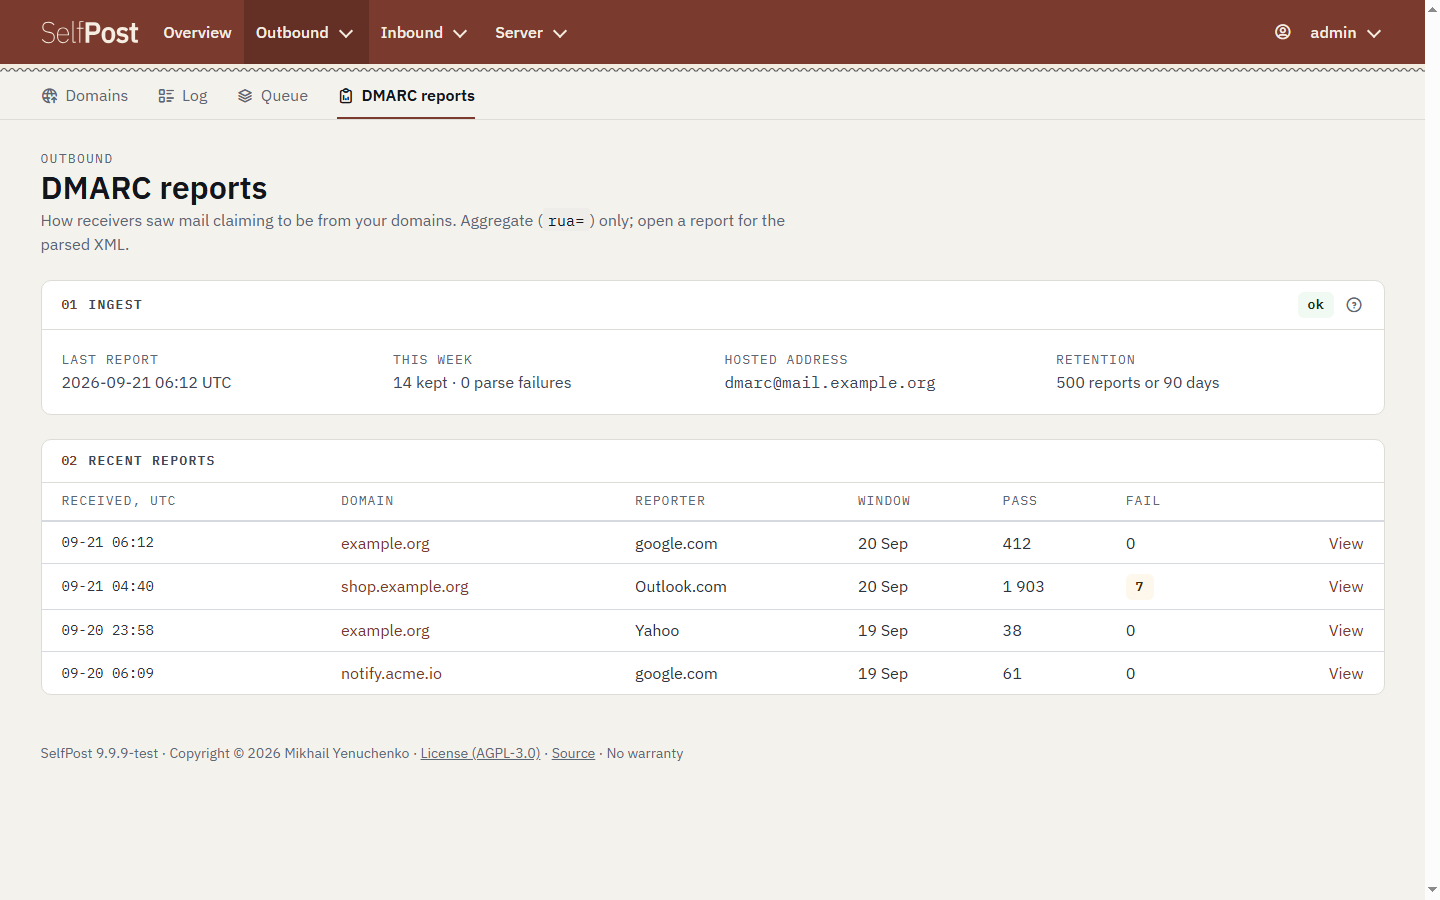
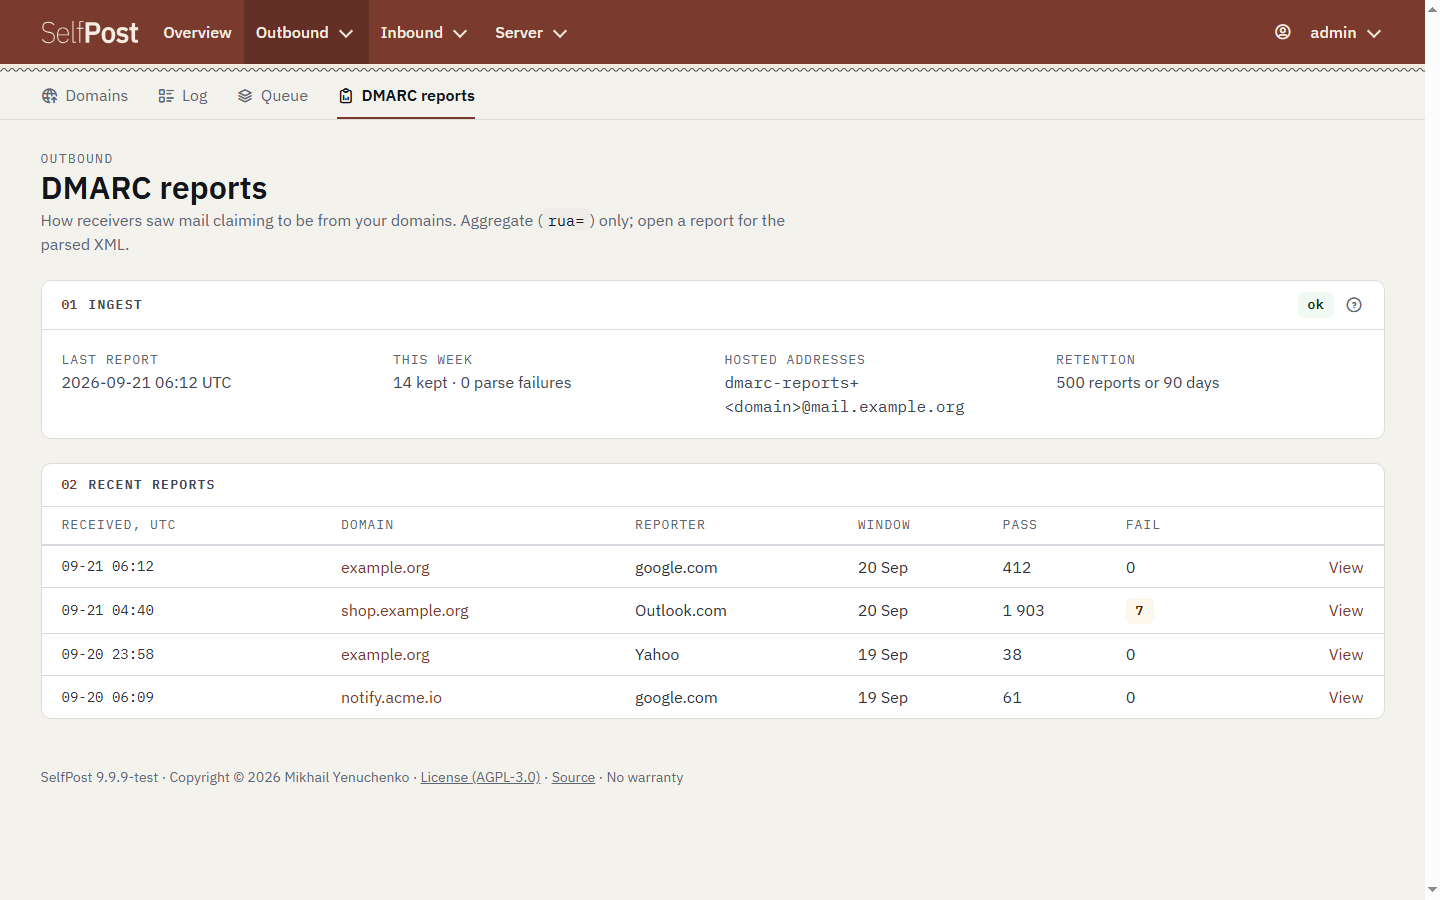
panel-redesign: no report mailbox for the server as a whole
Follows the design commit before it.

  - internal/dmarc: the ingest allow-list is the report address of each
    domain that is on this host and nothing else;
    DefaultHostedReportAddress and DefaultHostedSuggestion are removed.
    Since 1.7.0 the general mailbox dmarc-reports@<hostname> was open
    while no panel-wide default existed; the three-choice scheme had
    left it open always.
  - The DMARC hub's Ingest box shows the form of a hosted address,
    dmarc-reports+<domain>@<hostname>.
  - guide.md: what port 25 accepts.

Evidence: docs/assets/panel-redesign/evidence/dmarc.png re-shot (the
address form wraps after the plus sign in its column at 1440 px).

  go test -count=1 ./internal/dmarc/... ./internal/web/... ./cmd/panel: ok

diff --git a/internal/web/handlers/handlers_dmarc_pages_test.go b/internal/web/handlers/handlers_dmarc_pages_test.go
@@ -49,7 +49,7 @@ func TestDMARCHubShowsIngestAndRecentReports(t *testing.T) {
 	body := getBody(t, s.h.HandleDMARCList, "/outbound/dmarc")
 	has(t, "hub", body,
 		`<h1 class="title is-3">DMARC reports</h1>`, `<h2>Ingest</h2>`, `<span class="tag is-success is-light">ok</span>`,
-		`1 kept · 0 parse failures`, `dmarc-reports@mail.example.org`, `500 reports or 90 days`,
+		`1 kept · 0 parse failures`, `Hosted addresses`, `dmarc-reports&#43;&lt;domain&gt;@mail.example.org`, `500 reports or 90 days`,
 		`<h2>Recent reports</h2>`, `<a href="/outbound/dmarc/domains/1">example.org</a>`, `Outlook.com`,
 		"<td>1\u00a0903</td>", `<span class="tag is-warning is-light">7</span>`, `href="/outbound/dmarc/reports/`+idStr(s.reportID)+`">View</a>`)
 	lacks(t, "hub", body, `None yet`)
@@ -184,7 +184,7 @@ func TestDMARCPagesStayWithinTheViewersDomains(t *testing.T) {
 	has(t, "hub for its administrator", hub.Body.String(), `<h1 class="title is-3">DMARC reports</h1>`, `<h2>Recent reports</h2>`,
 		`<a href="/outbound/dmarc/domains/1">example.org</a>`, `Outlook.com`, `href="/outbound/dmarc/reports/`+idStr(s.reportID)+`"`)
 	lacks(t, "hub for its administrator", hub.Body.String(), "other.example.net", "google.com",
-		`/outbound/dmarc/reports/`+idStr(otherReport)+`"`, `<h2>Ingest</h2>`, `dmarc-reports@mail.example.org`,
+		`/outbound/dmarc/reports/`+idStr(otherReport)+`"`, `<h2>Ingest</h2>`, `Hosted addresses`, `dmarc-reports&#43;&lt;domain&gt;`,
 		`parse failure`, `Last report`, `Retention`)
 
 	// Their own domain and report are theirs, and so is the way back to the hub.

diff --git a/internal/dmarc/service.go b/internal/dmarc/service.go
@@ -64,10 +64,9 @@ func (s *Service) AllowedRecipients() ([]string, error) {
 		seen[addr] = true
 		out = append(out, addr)
 	}
-	// The instance's generic mailbox is always open: it is the address the
-	// guide tells a fresh install to publish. A domain's own report address
-	// opens the mailbox it names, if that is on this host.
-	add(DefaultHostedReportAddress(s.hostname))
+	// Only what a domain has chosen is open: its report address opens the
+	// mailbox it names, if that is on this host. There is no mailbox for the
+	// server as a whole.
 	domains, err := s.store.ListDomains()
 	if err != nil {
 		return nil, err
@@ -99,11 +98,6 @@ func recipientDomains(addrs []string) []string {
 // HostedSuggestion returns the address the panel should suggest for a domain.
 func (s *Service) HostedSuggestion(domain string) string {
 	return HostedReportAddress(s.hostname, domain)
-}
-
-// DefaultHostedSuggestion is the settings-level hosted address.
-func (s *Service) DefaultHostedSuggestion() string {
-	return DefaultHostedReportAddress(s.hostname)
 }
 
 // ValidateHostedAddress ensures addr is on this hostname before saving.

diff --git a/internal/dmarc/service_test.go b/internal/dmarc/service_test.go
@@ -7,8 +7,8 @@ import (
 	"github.com/mixeme/selfpost/internal/store"
 )
 
-// The ingest allow-list is the generic mailbox plus the report address of each
-// domain that points at this host: a new domain (no reports) and a domain
+// The ingest allow-list is the report address of each domain that points at
+// this host, and nothing for the server as a whole: a new domain (no reports) and a domain
 // reporting to another host open nothing of their own.
 func TestAllowedRecipientsFollowTheDomainAddresses(t *testing.T) {
 	st, err := store.Open(t.TempDir() + "/test.db")
@@ -36,7 +36,7 @@ func TestAllowedRecipientsFollowTheDomainAddresses(t *testing.T) {
 	if err != nil {
 		t.Fatalf("AllowedRecipients: %v", err)
 	}
-	want := []string{"dmarc-reports+hosted.example@mail.example.com", "dmarc-reports@mail.example.com", "ops@mail.example.com"}
+	want := []string{"dmarc-reports+hosted.example@mail.example.com", "ops@mail.example.com"}
 	if !reflect.DeepEqual(got, want) {
 		t.Errorf("allowed recipients = %v, want %v", got, want)
 	}

diff --git a/internal/dmarc/addresses.go b/internal/dmarc/addresses.go
@@ -4,7 +4,8 @@ import (
 	"strings"
 )
 
-// DefaultLocalPart is the mailbox local-part for the panel-wide hosted address.
+// DefaultLocalPart is the local part of every hosted address; the domain
+// follows it after a plus sign.
 const DefaultLocalPart = "dmarc-reports"
 
 // HostedReportAddress is the per-domain SelfPost-hosted rua= destination.
@@ -12,11 +13,6 @@ func HostedReportAddress(hostname, domain string) string {
 	hostname = strings.ToLower(strings.TrimSpace(hostname))
 	domain = strings.ToLower(strings.TrimSpace(domain))
 	return DefaultLocalPart + "+" + domain + "@" + hostname
-}
-
-// DefaultHostedReportAddress is the settings-level hosted rua= when ingest is on.
-func DefaultHostedReportAddress(hostname string) string {
-	return DefaultLocalPart + "@" + strings.ToLower(strings.TrimSpace(hostname))
 }
 
 // IsHostedOnHostname reports whether addr is delivered locally on hostname.

diff --git a/internal/web/view/dmarc_test.go b/internal/web/view/dmarc_test.go
@@ -12,7 +12,7 @@ func TestDMARCHubShowsIngestAndTheLatestReports(t *testing.T) {
 	pageHas(t, "DMARC reports", out,
 		`<h1 class="title is-3">DMARC reports</h1>`, `<code>rua=</code>`,
 		`<h2>Ingest</h2>`, `<span class="tag is-success is-light">ok</span>`,
-		`<dd>2026-09-21 06:12 UTC</dd>`, `<dd>14 kept · 0 parse failures</dd>`, `<dd class="sp-mono">dmarc@mail.example.org</dd>`, `<dd>500 reports or 90 days</dd>`,
+		`<dd>2026-09-21 06:12 UTC</dd>`, `<dd>14 kept · 0 parse failures</dd>`, `<dt>Hosted addresses</dt>`, `<dd class="sp-mono">dmarc-reports&#43;&lt;domain&gt;@mail.example.org</dd>`, `<dd>500 reports or 90 days</dd>`,
 		`<th>Received, UTC</th>`, `09-21 06:12`, `<a href="/outbound/dmarc/domains/1">example.org</a>`,
 		"<td>1 903</td>", `<span class="tag is-warning is-light">7</span>`, `<td>0</td><td class="sp-actions"><a href="/outbound/dmarc/reports/41">View</a>`,
 	)

diff --git a/internal/web/view/fixtures_test.go b/internal/web/view/fixtures_test.go
@@ -271,7 +271,7 @@ func outMessageFixture() *OutMessage {
 func dmarcHubFixture() *DMARCHub {
 	p := NewDMARCHub(admin(), IngestInput{
 		OK: true, Last: time.Date(2026, 9, 21, 6, 12, 0, 0, time.UTC), KeptThisWeek: 14, ParseFailures: 0,
-		Hosted: "dmarc@mail.example.org", Host: "mail.example.org", RetentionMax: 500, RetentionDays: 90,
+		Hosted: "dmarc-reports+<domain>@mail.example.org", Host: "mail.example.org", RetentionMax: 500, RetentionDays: 90,
 	})
 	row := func(id int64, at, domain, reporter, window string, pass, fail int) DMARCReportRow {
 		return DMARCReportRow{Received: at, Domain: domain, DomainHref: "/outbound/dmarc/domains/1", Reporter: reporter,

diff --git a/internal/web/view/dmarc.go b/internal/web/view/dmarc.go
@@ -112,7 +112,7 @@ func NewDMARCHub(m Meta, in IngestInput) *DMARCHub {
 		IngestFacts: []Fact{
 			last,
 			{Label: "This week", Value: Plain(FormatCount(int64(in.KeptThisWeek)) + " kept · " + plural(int64(in.ParseFailures), "parse failure", "parse failures"))},
-			{Label: "Hosted address", Value: Plain(in.Hosted), Mono: true},
+			{Label: "Hosted addresses", Value: Plain(in.Hosted), Mono: true},
 			{Label: "Retention", Value: Plain(FormatCount(int64(in.RetentionMax)) + " reports or " + plural(int64(in.RetentionDays), "day", "days"))},
 		},
 		Recent: Box{No: "02", Title: "Recent reports"},

diff --git a/internal/web/handlers/handlers_dmarc_reports.go b/internal/web/handlers/handlers_dmarc_reports.go
@@ -85,7 +85,7 @@ func (h *Handlers) HandleDMARCList(w http.ResponseWriter, r *http.Request) {
 	}
 	in := view.IngestInput{
 		OK: stats.IngestOK, KeptThisWeek: stats.KeptThisWeek, ParseFailures: stats.ParseFailures,
-		Hosted: h.dmarc.DefaultHostedSuggestion(), Host: h.cfg.Hostname,
+		Hosted: dmarc.HostedReportAddress(h.cfg.Hostname, "<domain>"), Host: h.cfg.Hostname,
 		RetentionMax: store.DMARCReportsMaxKeep, RetentionDays: store.DMARCReportsMaxAgeDays,
 	}
 	if stats.LastReceivedAt != nil {

diff --git a/CHANGELOG.md b/CHANGELOG.md
@@ -133,6 +133,12 @@ Format follows [Keep a Changelog](https://keepachangelog.com/en/1.1.0/); version
   `unix:/path`, one second at most, nothing sent). A filter that does not
   answer is an error with `INBOUND_ANTISPAM_MILTER_ACTION=tempfail` - inbound
   mail is deferred - and a warning otherwise - mail goes through unfiltered.
+- **Port 25 no longer accepts `dmarc-reports@<hostname>`**, the report
+  mailbox of the server as a whole. Only an address a domain has chosen is
+  accepted: its hosted address `dmarc-reports+<domain>@<hostname>`, or a
+  typed address that is on this host. A domain whose published `rua=` still
+  names the general mailbox must be set to *SelfPost hosted* and its DMARC
+  record republished (owner, 2026-10-10).
 - panel-redesign (design, stage 3): **New password** and **Delete** are in
   each row of a domain's Applications table again, as POST forms that look
   like the links beside them.

diff --git a/docs/guide.md b/docs/guide.md
@@ -874,9 +874,10 @@ settings) and nowhere else:
 
 Changing the choice changes the DMARC record to publish; the domain page shows
 the new value. There is no panel-wide or per-user default. Only addresses on
-`SELFPOST_HOSTNAME` are accepted on port 25: the generic
-`dmarc-reports@<hostname>` and any address on that host that a domain has
-chosen.
+`SELFPOST_HOSTNAME` that a domain has chosen are accepted on port 25 - the
+hosted address `dmarc-reports+<domain>@<hostname>` of a domain set to
+*SelfPost hosted*, or a typed address that happens to be on this host. There
+is no mailbox for the server as a whole.
 
 **DNS.** Publish the usual `_dmarc` TXT on each sending domain with
 `rua=mailto:…` pointing at the address the domain shows. Receivers deliver to the
